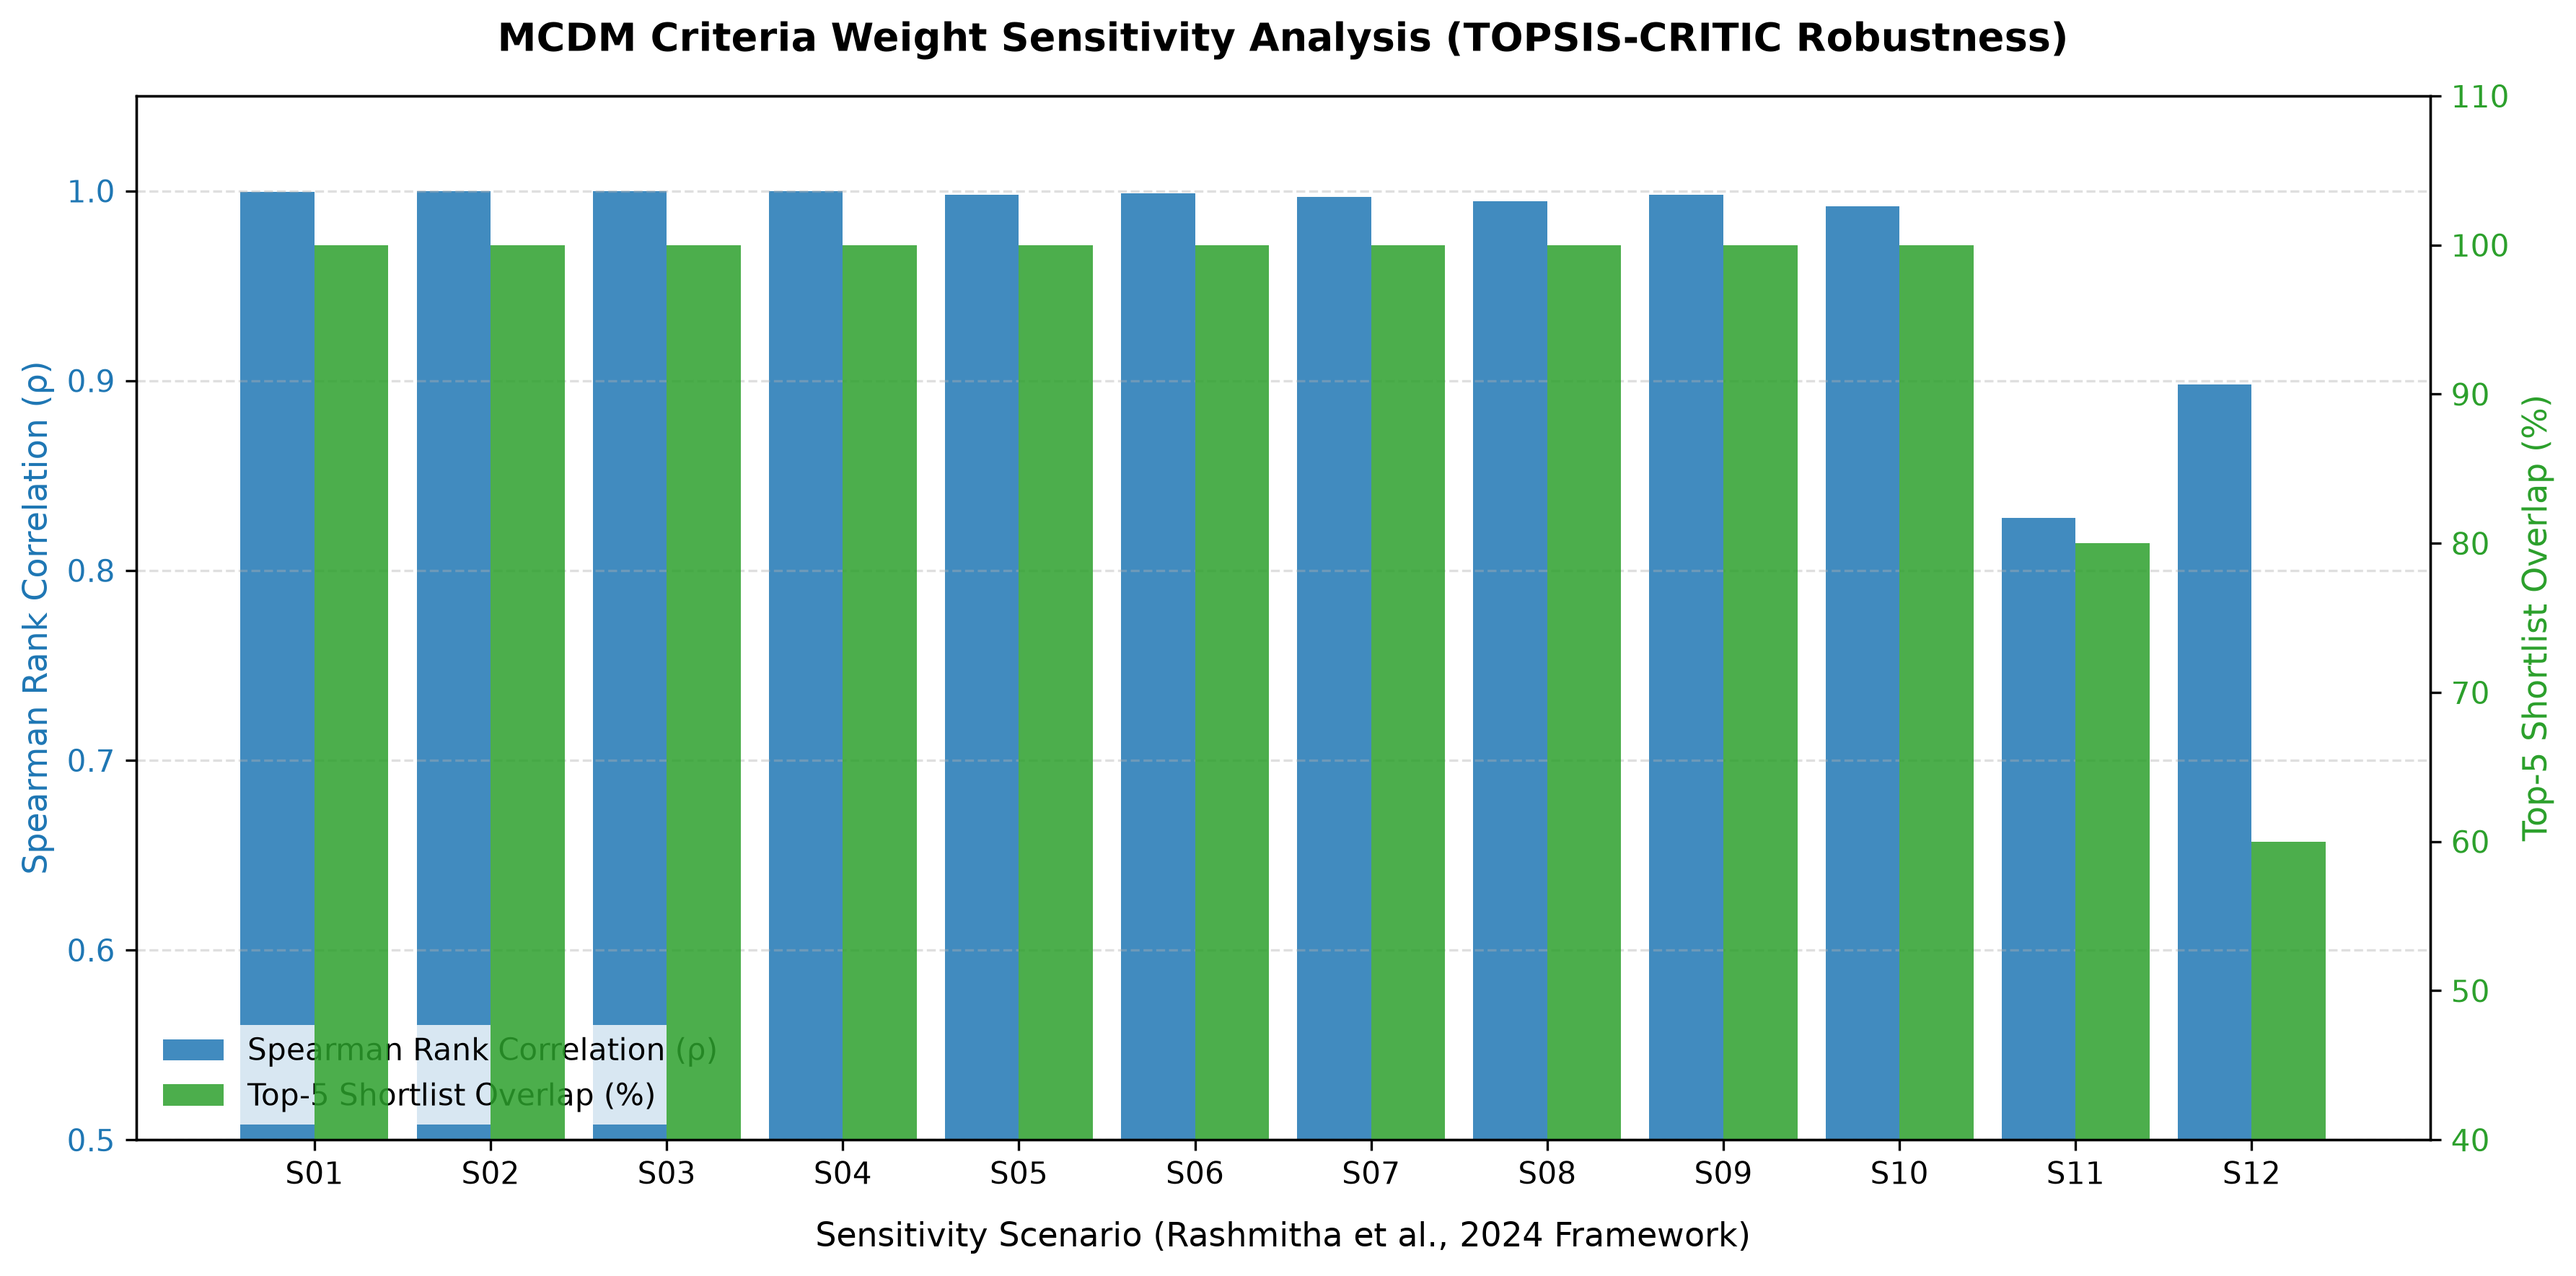
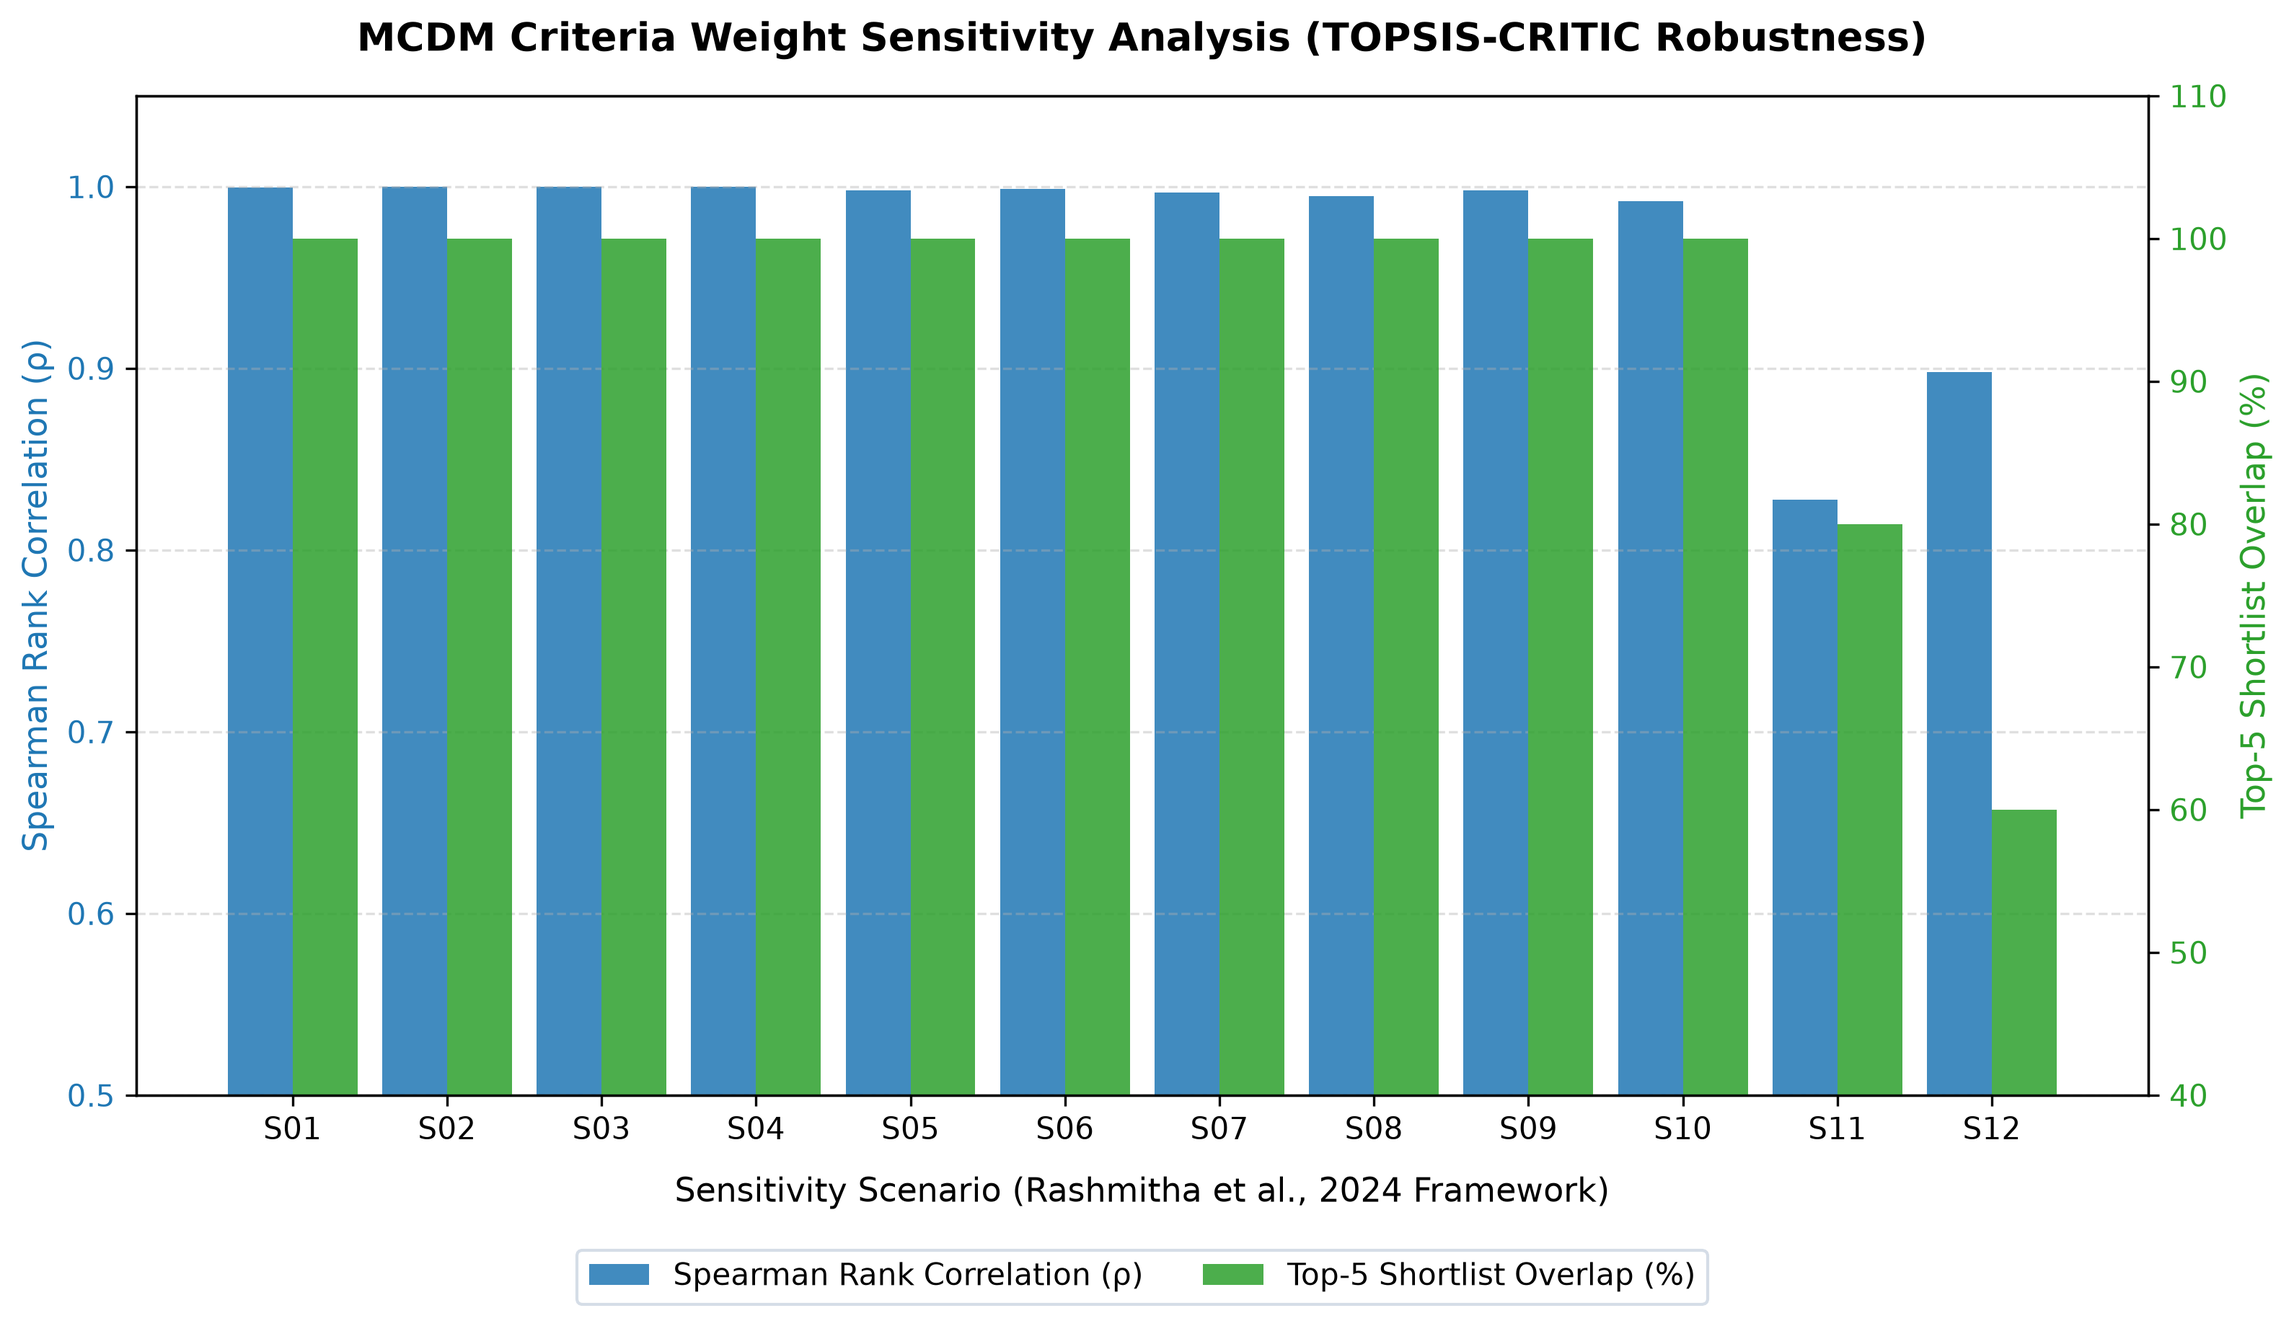
fix(visualization): resolve overlapping legend in MCDM sensitivity analysis figure and update artifacts

diff --git a/src/integration/sensitivity_analysis.py b/src/integration/sensitivity_analysis.py
@@ -220,14 +220,23 @@ def generate_mcdm_sensitivity_figure(
     ax2.tick_params(axis="y", labelcolor=color2)
     ax2.set_ylim(40, 110)
 
-    # Title & Legends
-    plt.title("MCDM Criteria Weight Sensitivity Analysis (TOPSIS-CRITIC Robustness)", fontsize=13, pad=15, fontweight="bold")
+    # Title & Combined Legend (placed cleanly below x-axis to prevent overlapping data bars)
+    ax1.set_title("MCDM Criteria Weight Sensitivity Analysis (TOPSIS-CRITIC Robustness)", fontsize=13, pad=15, fontweight="bold")
     
-    # Combined legend
     lines1, labels1 = ax1.get_legend_handles_labels()
     lines2, labels2 = ax2.get_legend_handles_labels()
-    ax1.legend(lines1 + lines2, labels1 + labels2, loc="lower left", frameon=True, facecolor="white", edgecolor="none")
+    ax1.legend(
+        lines1 + lines2,
+        labels1 + labels2,
+        loc="upper center",
+        bbox_to_anchor=(0.5, -0.14),
+        ncol=2,
+        frameon=True,
+        facecolor="white",
+        edgecolor="#cbd5e1",
+        fontsize=10,
+    )
 
-    plt.tight_layout()
     plt.savefig(output_figure_path, dpi=300, bbox_inches="tight")
-    plt.close()
+    plt.close(fig)
+
